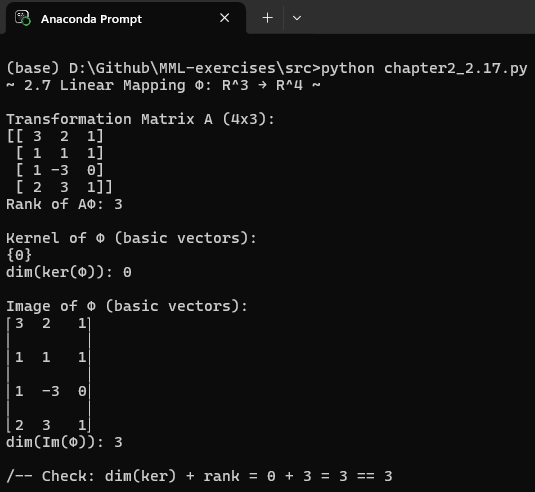
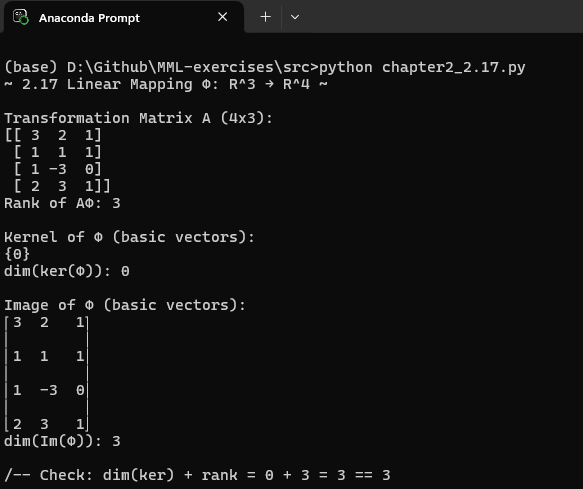
Exercise 2.19

diff --git a/src/chapter2_2.19.py b/src/chapter2_2.19.py
@@ -1,0 +1,49 @@
+import numpy as np
+from sympy import Matrix, pprint
+
+print("~ 2.19 Endomorphism Φ: R^3 → R^3 ~")
+
+# Transformation matrix respect to standard basis
+A = np.array([[1, 1, 0],
+              [1, -1, 0],
+              [1, 1, 1]], dtype=int)
+
+print("\nTransformation Matrix A (standard basis):")
+print(A)
+
+# Converting to SymPy Matrix for kernel and image
+M = Matrix(A)
+
+# Kernel
+ker = M.nullspace()
+print("\nKernel of Φ (basic vectors):")
+if ker:
+    ker_matrix = Matrix.hstack(*ker)
+    pprint(ker_matrix)
+else:
+    print("{0}")
+
+print("dim(ker(Φ)):", len(ker))
+
+# Image
+img = M.columnspace()
+print("\nImage of Φ (basic vectors):")
+img_matrix = Matrix.hstack(*img)
+pprint(img_matrix)
+
+print("dim(Im(Φ)):", len(img))
+
+# Basis change
+print("\n\n~ Basis change with respect to basis B")
+B = Matrix([[1, 1, 1],
+            [1, 2, 0],
+            [1, 1, 0]])
+
+print("\n Basis matrix B:")
+pprint(B)
+
+#! Change of basis: Af = B^-1 * A * B [Source that may have a better sol: https://www.kaggle.com/code/dhgupta/change-of-basis]
+Af = B.inv() * M * B
+
+print("\nTransformation Matrix A_B (basis B):")
+pprint(Af)

diff --git a/src/chapter2_2.17.py b/src/chapter2_2.17.py
@@ -1,7 +1,7 @@
 import numpy as np
 from sympy import Matrix, pprint
 
-print("~ 2.7 Linear Mapping Φ: R^3 → R^4 ~")
+print("~ 2.17 Linear Mapping Φ: R^3 → R^4 ~")
 
 # Transformation matrix
 A = np.array([[3, 2, 1],
